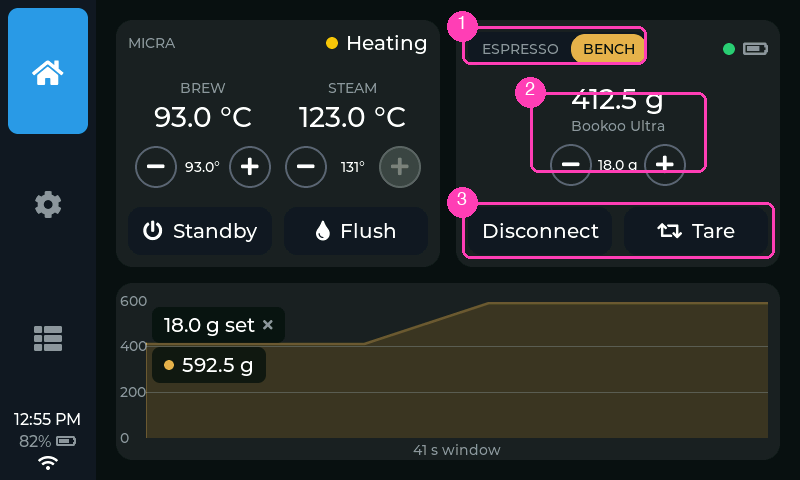
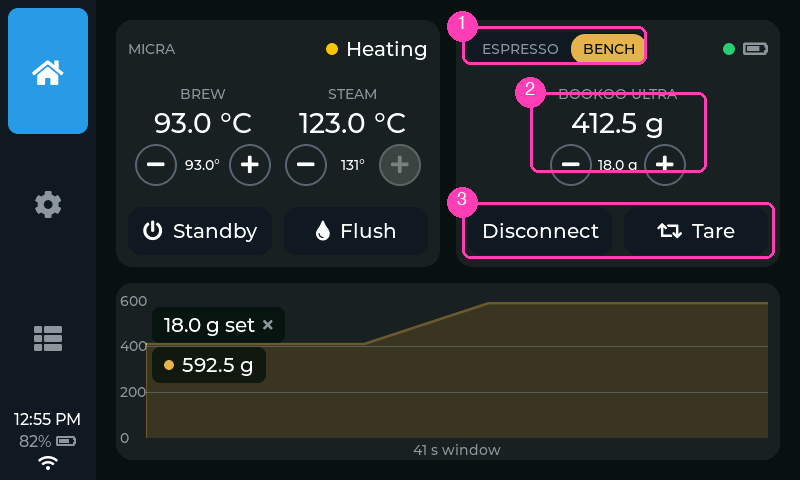
home: the panel-slot bench card is a panel column — name, weight and stepper on the MICRA card's lines; swap mode levels the MICRA card too
BENCH side of the swap card and the bench-only card: ONE panel column
like the MICRA / SCALE cards' (caption line = the scale's name in caps,
value line = the weight, stepper line = the dose stepper), so BREW /
STEAM / BOOKOO ULTRA, the values and the steppers share lines (owner).
The Record outline is no longer a box in the flow: a layout-ignoring
object behind the caption + value, fitted to them in set_bench_dose
(the labels aren't clickable, so a tap on the text still reaches it).
The stepper's slot stays when the dose feature is off (fixed-height
group, children hidden) so the rows don't drift.

Swap mode: the MICRA header is set to the switch header's measured
height and its body loses the same 16 dp of slack as the SCALE card
(pad_top + stepper margins), so the ESPRESSO side's rows line up with
MICRA's instead of sitting 7 px off. The beside card keeps its own
layout (stepper on the name's line, nothing beside it to align with).
Manual + images; sim: clipped -7..-11 on the swap cards.

diff --git a/src/ui/home_tab.cpp b/src/ui/home_tab.cpp
@@ -1188,82 +1188,97 @@ lv_obj_t* build_bench_panel(lv_obj_t* parent, const lv_font_t* cap_font,
   if (with_switch) add_segmented_switch(lv_obj_get_child(card, 0), 1, cap_font, out);
 
   lv_obj_t* body = make_panel_body(card);
-  lv_obj_set_flex_flow(body, LV_FLEX_FLOW_COLUMN);
-  lv_obj_set_flex_align(body, LV_FLEX_ALIGN_CENTER, LV_FLEX_ALIGN_CENTER,
-                        LV_FLEX_ALIGN_CENTER);
-  // The weight and its caption share ONE block: dormant it is invisible
-  // (no border, no fill) and the caption is the scale's name; while the
-  // reading is a dose candidate it is the Record control (set_bench_dose).
-  // The block is sized to the body, not the body to the block: the actions
-  // row below is laid out after the body and draws over anything taller.
-  lv_obj_t* blk = lv_obj_create(body);
-  lv_obj_remove_style_all(blk);
-  lv_obj_remove_flag(blk, LV_OBJ_FLAG_SCROLLABLE);
-  lv_obj_add_flag(blk, LV_OBJ_FLAG_CLICKABLE);
-  lv_obj_set_size(blk, LV_SIZE_CONTENT, LV_SIZE_CONTENT);
-  lv_obj_set_flex_flow(blk, LV_FLEX_FLOW_COLUMN);
-  lv_obj_set_flex_align(blk, LV_FLEX_ALIGN_CENTER, LV_FLEX_ALIGN_CENTER, LV_FLEX_ALIGN_CENTER);
-  lv_obj_set_style_pad_hor(blk, ui::dp(16), 0);
-  lv_obj_set_style_pad_top(blk, ui::dp(2), 0);
-  lv_obj_set_style_pad_bottom(blk, ui::dp(6), 0);
-  lv_obj_set_style_pad_row(blk, ui::dp(4), 0);
-  lv_obj_set_style_radius(blk, ui::dp(12), 0);
-  lv_obj_set_style_border_width(blk, 0, 0);
-  lv_obj_set_style_border_color(blk, lv_color_hex(ui::theme::bench()), 0);
-  lv_obj_set_style_bg_color(blk, lv_color_hex(ui::theme::bench()), 0);
-  lv_obj_set_style_bg_opa(blk, LV_OPA_TRANSP, 0);
-  out.bench_block = blk;
+  // Dose block: the Record control. Outlined (amber) while the reading is a
+  // dose candidate, filled once recorded, invisible otherwise; its caption
+  // is the scale's name when dormant (set_bench_dose).
+  auto make_block = [&](lv_obj_t* parent) {
+    lv_obj_t* blk = lv_obj_create(parent);
+    lv_obj_remove_style_all(blk);
+    lv_obj_remove_flag(blk, LV_OBJ_FLAG_SCROLLABLE);
+    lv_obj_add_flag(blk, LV_OBJ_FLAG_CLICKABLE);
+    lv_obj_set_style_radius(blk, ui::dp(12), 0);
+    lv_obj_set_style_border_width(blk, 0, 0);
+    lv_obj_set_style_border_color(blk, lv_color_hex(ui::theme::bench()), 0);
+    lv_obj_set_style_bg_color(blk, lv_color_hex(ui::theme::bench()), 0);
+    lv_obj_set_style_bg_opa(blk, LV_OPA_TRANSP, 0);
+    return blk;
+  };
+  auto make_labels = [&](lv_obj_t* parent, bool name_first) {
+    for (int i = 0; i < 2; ++i) {
+      if ((i == 0) == name_first) {
+        out.bench_name = lv_label_create(parent);
+        lv_label_set_text(out.bench_name, "");
+        lv_obj_set_style_text_font(out.bench_name, cap_font, 0);
+        lv_obj_set_style_text_color(out.bench_name, lv_color_hex(ui::theme::muted()), 0);
+      } else {
+        out.bench_weight = lv_label_create(parent);
+        lv_label_set_text(out.bench_weight, "-- g");
+        lv_obj_set_style_text_font(out.bench_weight, val_font, 0);  // = the other card values
+        lv_obj_set_style_text_color(out.bench_weight, lv_color_hex(ui::theme::text()), 0);
+      }
+    }
+  };
   out.bench_dose_state = 0;
-  out.bench_weight = lv_label_create(blk);
-  lv_label_set_text(out.bench_weight, "-- g");
-  lv_obj_set_style_text_font(out.bench_weight, val_font, 0);  // = the other card values
-  lv_obj_set_style_text_color(out.bench_weight, lv_color_hex(ui::theme::text()), 0);
-  out.bench_name = lv_label_create(blk);
-  lv_label_set_text(out.bench_name, "");
-  lv_obj_set_style_text_font(out.bench_name, cap_font, 0);
-  lv_obj_set_style_text_color(out.bench_name, lv_color_hex(ui::theme::muted()), 0);
-  // Swap card only: the default-dose stepper in the slot the SCALE card's
-  // target stepper has (same buttons, same row), under the weight block.
-  // Built hidden; App shows it with the Record dose feature. The body's top
-  // pad and the group's own margin go: the card's height is the panel
-  // row's, and the block + stepper are centred in it. The beside card is
-  // the graph's height — ~62 px of body at 800x480, which the weight and
-  // its caption already fill — so it stays the readout it is (Tare only;
-  // the dose is dialled in Settings there).
-  if (with_switch || !with_connect) {
-    // Beside the graph the card is the graph's height — room for the
-    // weight and ONE line under it: the stepper takes the scale name's
-    // line, and a Record offer takes it back for its moment (App hides
-    // one or the other).
-    out.bench_dose_on_caption = !with_switch;
-    if (with_switch) {
-      // Swap card: the block (weight + name, or the Record outline) sits
-      // 4 dp higher, into the header gap, so the outline clears the
-      // stepper instead of touching it (owner, X-8 2026-11-01).
-      lv_obj_set_style_translate_y(blk, -ui::dp(4), 0);
-    }
-    if (out.bench_dose_on_caption) {
-      // Every px counts here (800x480: a 65 px body for a 34 px weight and
-      // a 32 px stepper): the block's outline padding exists only while
-      // the outline shows (set_bench_dose), and the card's row gap is 8 dp
-      // instead of the panels' 12 — the two gaps hand the body 8 px.
-      lv_obj_set_style_pad_top(blk, 0, 0);
-      lv_obj_set_style_pad_bottom(blk, 0, 0);
-      lv_obj_set_style_pad_row(card, ui::dp(8), 0);
-      // The weight sits a little higher than the layout puts it, into the
-      // header gap, so the stepper gets air under the value (owner) — only
-      // while the stepper is on the line: the body clips its children, and
-      // the outline's top would go with it (set_bench_dose).
-      lv_obj_set_style_translate_y(blk, -ui::dp(5), 0);
-    }
+  out.bench_dose_on_caption = !with_connect;
+  if (with_connect) {
+    // Panel slot (swap / bench-only): ONE panel column like the MICRA and
+    // SCALE cards' — the scale's name on the caption line, the weight on
+    // the value line, the dose stepper on the stepper line — so every row
+    // lines up across the cards (owner, 2026-11-01). The outline is NOT in
+    // the flow: a layout-ignoring object sized over the caption + value
+    // after layout and drawn behind them (the labels aren't clickable, so
+    // a tap on the text reaches it).
+    lv_obj_t* col = lv_obj_create(body);
+    lv_obj_remove_style_all(col);
+    lv_obj_remove_flag(col, LV_OBJ_FLAG_SCROLLABLE);
+    lv_obj_set_flex_grow(col, 1);
+    lv_obj_set_height(col, lv_pct(100));
+    lv_obj_set_flex_flow(col, LV_FLEX_FLOW_COLUMN);
+    lv_obj_set_flex_align(col, LV_FLEX_ALIGN_START, LV_FLEX_ALIGN_CENTER, LV_FLEX_ALIGN_CENTER);
+    lv_obj_set_style_pad_row(col, ui::dp(6), 0);  // = make_panel_column
+    out.bench_block = make_block(col);
+    lv_obj_add_flag(out.bench_block, LV_OBJ_FLAG_IGNORE_LAYOUT);
+    make_labels(col, /*name_first=*/true);
+    make_stepper_group(col, btn_size, symbol_font, set_font, &out.bench_dose_value,
+                       &out.bench_dose_minus, &out.bench_dose_plus);
+    out.bench_dose_group = lv_obj_get_parent(out.bench_dose_value);
+    // The stepper's SLOT stays when the stepper isn't shown (the group keeps
+    // its height; App hides its children): the rows above must not move
+    // when the dose feature is off. Centred like the MICRA columns.
+    lv_obj_set_height(out.bench_dose_group, btn_size);
+    for (uint32_t i = 0; i < lv_obj_get_child_count(out.bench_dose_group); ++i)
+      lv_obj_add_flag(lv_obj_get_child(out.bench_dose_group, i), LV_OBJ_FLAG_HIDDEN);
+    lv_obj_set_flex_align(col, LV_FLEX_ALIGN_CENTER, LV_FLEX_ALIGN_CENTER, LV_FLEX_ALIGN_CENTER);
+  } else {
+    // Beside the graph (the graph's height): the weight with the name under
+    // it in a block that IS the flow, and the dose stepper takes the name's
+    // line while it shows (App hides one or the other; set_bench_dose gives
+    // the outline its padding only while it draws). Every px counts here —
+    // 800x480 leaves ~65 px of body for a 34 px weight and a 32 px stepper —
+    // so the card's row gap is 8 dp, not the panels' 12.
+    lv_obj_set_flex_flow(body, LV_FLEX_FLOW_COLUMN);
+    lv_obj_set_flex_align(body, LV_FLEX_ALIGN_CENTER, LV_FLEX_ALIGN_CENTER, LV_FLEX_ALIGN_CENTER);
+    lv_obj_t* blk = make_block(body);
+    lv_obj_set_size(blk, LV_SIZE_CONTENT, LV_SIZE_CONTENT);
+    lv_obj_set_flex_flow(blk, LV_FLEX_FLOW_COLUMN);
+    lv_obj_set_flex_align(blk, LV_FLEX_ALIGN_CENTER, LV_FLEX_ALIGN_CENTER, LV_FLEX_ALIGN_CENTER);
+    lv_obj_set_style_pad_hor(blk, ui::dp(16), 0);
+    lv_obj_set_style_pad_row(blk, ui::dp(4), 0);
+    out.bench_block = blk;
+    make_labels(blk, /*name_first=*/false);
+    lv_obj_set_style_pad_row(card, ui::dp(8), 0);
+    // The weight sits a little higher than the layout puts it, into the
+    // header gap, so the stepper gets air under the value (owner) — only
+    // while the stepper is on the line: the body clips its children, and
+    // the outline's top would go with it (set_bench_dose).
+    lv_obj_set_style_translate_y(blk, -ui::dp(5), 0);
     lv_obj_set_style_pad_top(body, 0, 0);
-    make_stepper_group(body, btn_size, symbol_font, set_font,
-                       &out.bench_dose_value, &out.bench_dose_minus, &out.bench_dose_plus);
+    make_stepper_group(body, btn_size, symbol_font, set_font, &out.bench_dose_value,
+                       &out.bench_dose_minus, &out.bench_dose_plus);
     out.bench_dose_group = lv_obj_get_parent(out.bench_dose_value);
     lv_obj_set_style_margin_top(out.bench_dose_group, 0, 0);
     lv_obj_add_flag(out.bench_dose_group, LV_OBJ_FLAG_HIDDEN);
   }
-
   lv_obj_t* acts = lv_obj_create(card);
   lv_obj_remove_style_all(acts);
   lv_obj_remove_flag(acts, LV_OBJ_FLAG_SCROLLABLE);
@@ -1314,6 +1329,20 @@ void set_bench_dose(HomeWidgets& w, int state, float dose_g) {
   else if (state == 2)
     std::snprintf(cap, sizeof(cap), LV_SYMBOL_OK "  %.1f g recorded", static_cast<double>(dose_g));
   if (state != 0) ui::set_text(w.bench_name, cap);
+  if (state != 0 && !w.bench_dose_on_caption) {
+    // Panel column: the outline is a layout-ignoring box behind the caption
+    // and value; fit it to them (the weight's width changes per reading).
+    lv_obj_t* col = lv_obj_get_parent(w.bench_block);
+    lv_obj_update_layout(col);
+    lv_area_t n, v, c;
+    lv_obj_get_coords(w.bench_name, &n);
+    lv_obj_get_coords(w.bench_weight, &v);
+    lv_obj_get_content_coords(col, &c);
+    const int ph = ui::dp(12), pt = ui::dp(3), pb = ui::dp(4);
+    const int wdt = std::max(lv_area_get_width(&n), lv_area_get_width(&v)) + 2 * ph;
+    lv_obj_set_size(w.bench_block, wdt, (v.y2 - n.y1 + 1) + pt + pb);
+    lv_obj_set_pos(w.bench_block, ((c.x1 + c.x2 + 1) / 2 - c.x1) - wdt / 2, (n.y1 - c.y1) - pt);
+  }
   if (state == w.bench_dose_state) return;
   w.bench_dose_state = state;
   // Dormant: no border, no fill, muted caption (update_home restores the
@@ -1341,9 +1370,12 @@ void log_bench_card_geometry(HomeWidgets& w) {
   // > 0 is clipped (LVGL clips children to the parent's rectangle, gap or
   // no gap below it).
   int low = b.y1;
-  for (uint32_t i = 0; i < lv_obj_get_child_count(body); ++i) {
-    lv_obj_t* c = lv_obj_get_child(body, i);
-    if (lv_obj_has_flag(c, LV_OBJ_FLAG_HIDDEN)) continue;
+  // The panel column's children are what can overflow; the beside card's
+  // body holds the block and the stepper directly.
+  lv_obj_t* holder = w.bench_dose_on_caption ? body : lv_obj_get_child(body, 0);
+  for (uint32_t i = 0; i < lv_obj_get_child_count(holder); ++i) {
+    lv_obj_t* c = lv_obj_get_child(holder, i);
+    if (lv_obj_has_flag(c, LV_OBJ_FLAG_HIDDEN) || lv_obj_has_flag(c, LV_OBJ_FLAG_IGNORE_LAYOUT)) continue;
     lv_area_t a; lv_obj_get_coords(c, &a);
     if (a.y2 > low) low = a.y2;
   }
@@ -1702,13 +1734,19 @@ void build_home_tab(lv_obj_t* parent, const ScreenProfile& screen, bool scale_en
       // shot pill lose their bottoms (owner's X-8, 2026-11-01). The 16 dp
       // the steppers sit lower by (see make_stepper_group / build_scale_panel)
       // is the slack: on the swap card they sit where the values' row ends.
-      if (out.target_minus != nullptr) {
-        lv_obj_t* stepper = lv_obj_get_parent(out.target_minus);
+      // The MICRA card takes the same shape — its header set to the switch
+      // header's height, the same slack out of its body — so BREW / STEAM /
+      // WEIGHT / TIMER, the values and the steppers share lines (owner).
+      auto flatten = [](lv_obj_t* stepper_btn) {
+        if (stepper_btn == nullptr) return;
+        lv_obj_t* stepper = lv_obj_get_parent(stepper_btn);
         lv_obj_set_style_margin_top(stepper, 0, 0);
-        lv_obj_t* wcol = lv_obj_get_parent(stepper);
-        lv_obj_t* row = lv_obj_get_parent(wcol);
-        lv_obj_set_style_pad_top(row, 0, 0);
-      }
+        lv_obj_t* col = lv_obj_get_parent(stepper);
+        lv_obj_set_style_pad_top(lv_obj_get_parent(col), 0, 0);
+      };
+      flatten(out.target_minus);
+      flatten(out.brew_minus);
+      flatten(out.boiler_minus);
       if (out.shot_btn != nullptr) lv_obj_set_style_margin_top(out.shot_btn, 0, 0);
       lv_obj_add_flag(out.scale_status_label, LV_OBJ_FLAG_HIDDEN);
       out.scale_status_label = nullptr;
@@ -1717,6 +1755,10 @@ void build_home_tab(lv_obj_t* parent, const ScreenProfile& screen, bool scale_en
                         /*with_status_text=*/false, /*with_connect=*/true,
                         /*with_switch=*/true, out);
       lv_obj_add_flag(out.bench_card, LV_OBJ_FLAG_HIDDEN);
+      flatten(out.bench_dose_minus);
+      lv_obj_update_layout(scale_hdr);
+      lv_obj_t* micra_hdr = lv_obj_get_child(lv_obj_get_child(panels, 0), 0);
+      lv_obj_set_height(micra_hdr, lv_obj_get_height(scale_hdr));
     }
   }
 
@@ -1819,8 +1861,13 @@ void update_home(HomeWidgets& w, const core::MachineSnapshot& state,
     else std::snprintf(wb, sizeof(wb), "-- g");
     ui::set_text(w.bench_weight, wb);
     char nb[32];
-    if (w.bench_dose_state == 0)  // the dose block owns the caption otherwise
-      ui::set_text(w.bench_name, ui::friendly_scale_name(bench->name, nb, sizeof(nb)));
+    if (w.bench_dose_state == 0) {  // the dose block owns the caption otherwise
+      ui::friendly_scale_name(bench->name, nb, sizeof(nb));
+      if (!w.bench_dose_on_caption)  // the panel column's caption line, like BREW / WEIGHT
+        for (char* q = nb; *q != '\0'; ++q)
+          if (*q >= 'a' && *q <= 'z') *q = static_cast<char>(*q - 'a' + 'A');
+      ui::set_text(w.bench_name, nb);
+    }
     const char* btxt;
     uint32_t bdot;
     if (bench->connected) {

diff --git a/src/ui/app.cpp b/src/ui/app.cpp
@@ -5571,8 +5571,16 @@ void App::sync_dose_settings_rows() {
     // Beside the graph the stepper and the caption share one line: the
     // caption only while a dose is offered / recorded.
     const bool caption_busy = home_.bench_dose_on_caption && home_.bench_dose_state != 0;
-    if (show && !caption_busy) lv_obj_remove_flag(home_.bench_dose_group, LV_OBJ_FLAG_HIDDEN);
-    else lv_obj_add_flag(home_.bench_dose_group, LV_OBJ_FLAG_HIDDEN);
+    if (home_.bench_dose_on_caption) {
+      if (show && !caption_busy) lv_obj_remove_flag(home_.bench_dose_group, LV_OBJ_FLAG_HIDDEN);
+      else lv_obj_add_flag(home_.bench_dose_group, LV_OBJ_FLAG_HIDDEN);
+    } else {  // panel column: the group keeps its slot, its children come and go
+      for (uint32_t i = 0; i < lv_obj_get_child_count(home_.bench_dose_group); ++i) {
+        lv_obj_t* c = lv_obj_get_child(home_.bench_dose_group, i);
+        if (show) lv_obj_remove_flag(c, LV_OBJ_FLAG_HIDDEN);
+        else lv_obj_add_flag(c, LV_OBJ_FLAG_HIDDEN);
+      }
+    }
     if (home_.bench_dose_on_caption && home_.bench_name != nullptr) {
       if (show && !caption_busy) lv_obj_add_flag(home_.bench_name, LV_OBJ_FLAG_HIDDEN);
       else lv_obj_remove_flag(home_.bench_name, LV_OBJ_FLAG_HIDDEN);

diff --git a/MANUAL.md b/MANUAL.md
@@ -212,10 +212,12 @@ auto flush), and nothing on this card is ever disabled by a shot.
   **BENCH** to swap the bench card in; tap **ESPRESSO** to swap back. A shot
   starting swaps back by itself, so a shot is never hidden. The status dot
   and battery stay in the header in both positions.
-- ② **WEIGHT** — the bench scale's live reading, with the scale's name under
-  it. Battery and status follow the same rules as the SCALE card's. When
-  what sits on the scale looks like a dose, this block becomes the **Record**
-  button — see *Recording your dose* below.
+- ② **WEIGHT** — the bench scale's live reading, with the scale's name as
+  its caption (above it on the swap card, on the same lines as the MICRA
+  card's BREW and STEAM; under it on the card beside the graph). Battery
+  and status follow the same rules as the SCALE card's. When what sits on
+  the scale looks like a dose, the caption and reading become the
+  **Record** button — see *Recording your dose* below.
 - ③ **Disconnect / Connect** and **Tare** — the bench scale's own.
 - With **Bench scale on Home** set to *Beside the graph*, the bench card sits
   to the right of the flow graph instead (with just **Tare**), and the graph
@@ -261,9 +263,10 @@ column on the shot's card and the web page).
 - **A default dose** (Settings → Scale → Shot settings → Default dose, off
   unless you set it) is for a constant daily dose, or for using the ratio
   with no bench scale at all. The BENCH card carries the same **− / +**
-  under its weight — on the swap card below the scale's name, beside the
-  graph in its place (a Record offer takes that line back while it shows)
-  — so the dose can be dialled without leaving Home. It is staged for every shot: the chip shows
+  under its weight — on the swap card in the row the other cards' steppers
+  use, beside the graph in the scale name's place (a Record offer takes
+  that line back while it shows) — so the dose can be dialled without
+  leaving Home. It is staged for every shot: the chip shows
   it as **18.0 g set**, and a dose you record overrides it for that one
   shot. The **×** on a staged default skips it for the next shot only; it
   is staged again after that shot, or when you've walked away as above.
